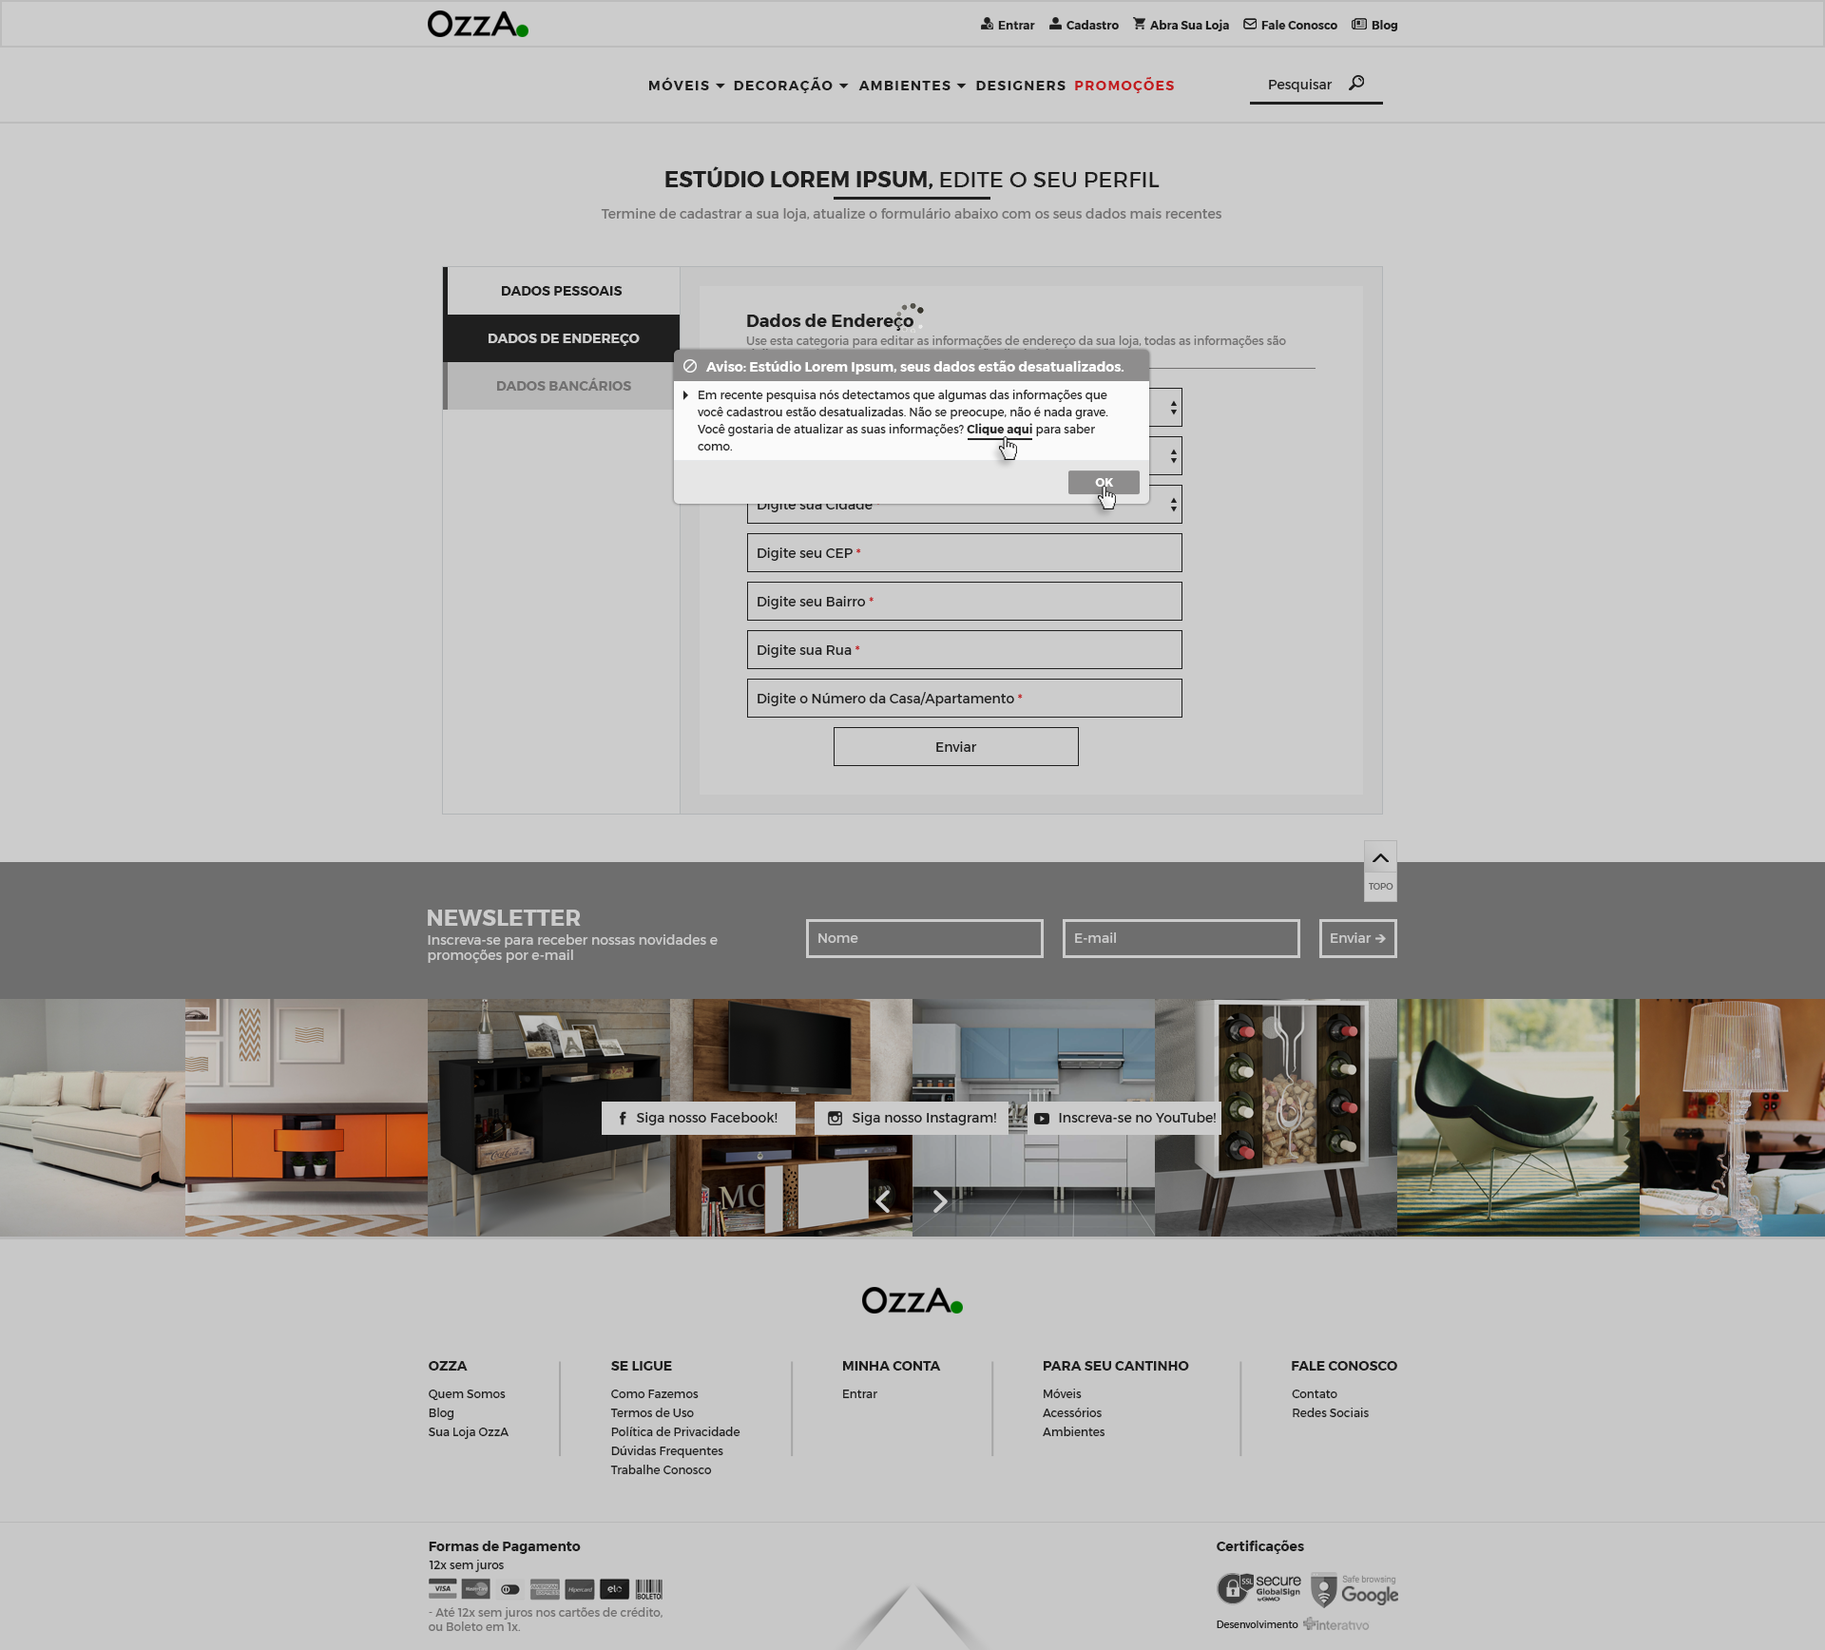
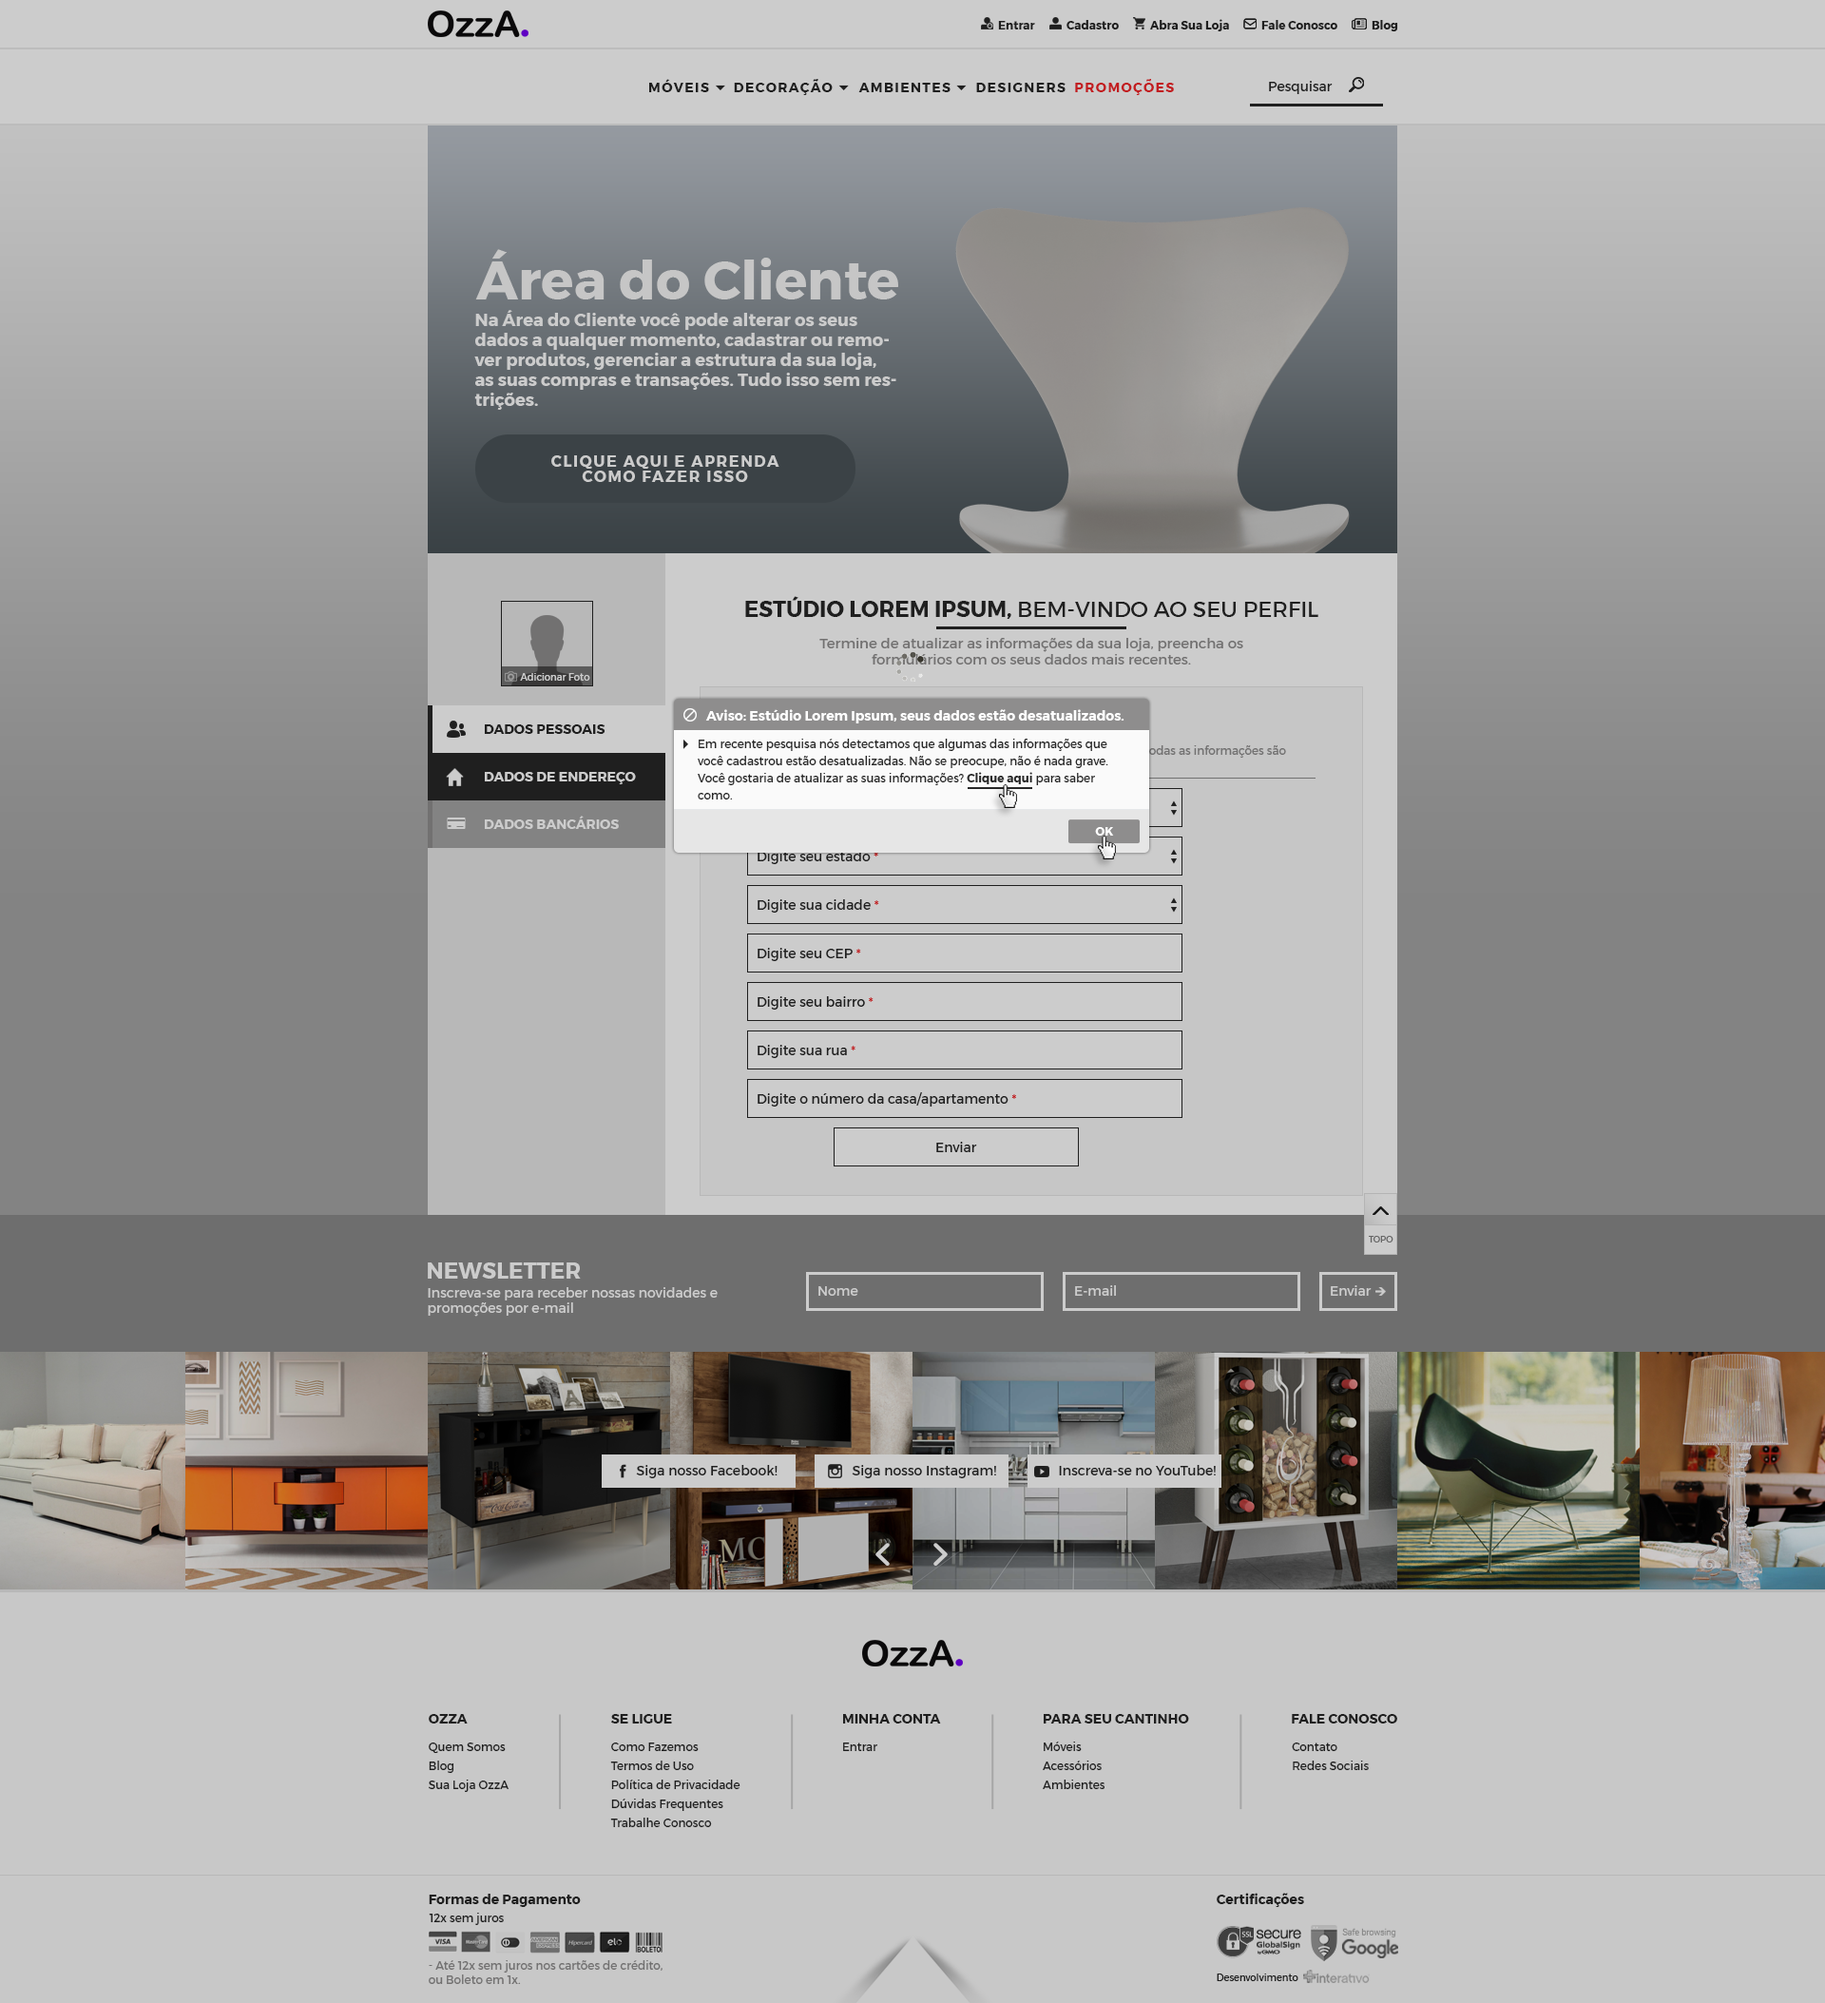
Add files via upload

diff --git a/css/style.css b/css/style.css
@@ -342,109 +342,109 @@
 		
 		.editarperfil-loja-dadospessoais {
 			width: 100%;
-			height: 2153px;
+			height: 2414px;
 			background: url('../imgs/editarperfil-loja-dadospessoais.png') no-repeat 50% 0%;
 		}
 		
 		.editarperfil-loja-dadospessoais-hover {
 			width: 100%;
-			height: 2153px;
+			height: 2414px;
 			background: url('../imgs/editarperfil-loja-dadospessoais-hover.png') no-repeat 50% 0%;
 		}
 		
 		.editarperfil-loja-dadospessoais-active {
 			width: 100%;
-			height: 2153px;
+			height: 2414px;
 			background: url('../imgs/editarperfil-loja-dadospessoais-active.png') no-repeat 50% 0%;
 		}
 
 		.editarperfil-loja-dadospessoais-erro {
 			width: 100%;
-			height: 2153px;
+			height: 2414px;
 			background: url('../imgs/editarperfil-loja-dadospessoais-erro.png') no-repeat 50% 0%;
 		}
 
 		.editarperfil-loja-dadospessoais-sucesso {
 			width: 100%;
-			height: 2153px;
+			height: 2414px;
 			background: url('../imgs/editarperfil-loja-dadospessoais-sucesso.png') no-repeat 50% 0%;
 		}
 
 		.editarperfil-loja-dadospessoais-aviso {
 			width: 100%;
-			height: 2153px;
+			height: 2414px;
 			background: url('../imgs/editarperfil-loja-dadospessoais-aviso.png') no-repeat 50% 0%;
 		}
 		
 		.editarperfil-loja-dadosendereco {
 			width: 100%;
-			height: 1736px;
+			height: 2107px;
 			background: url('../imgs/editarperfil-loja-dadosendereco.png') no-repeat 50% 0%;
 		}
 		
 		.editarperfil-loja-dadosendereco-hover {
 			width: 100%;
-			height: 1736px;
+			height: 2107px;
 			background: url('../imgs/editarperfil-loja-dadosendereco-hover.png') no-repeat 50% 0%;
 		}
 		
 		.editarperfil-loja-dadosendereco-active {
 			width: 100%;
-			height: 1736px;
+			height: 2107px;
 			background: url('../imgs/editarperfil-loja-dadosendereco-active.png') no-repeat 50% 0%;
 		}
 
 		.editarperfil-loja-dadosendereco-erro {
 			width: 100%;
-			height: 1736px;
+			height: 2107px;
 			background: url('../imgs/editarperfil-loja-dadosendereco-erro.png') no-repeat 50% 0%;
 		}
 
 		.editarperfil-loja-dadosendereco-sucesso {
 			width: 100%;
-			height: 1736px;
+			height: 2107px;
 			background: url('../imgs/editarperfil-loja-dadosendereco-sucesso.png') no-repeat 50% 0%;
 		}
 
 		.editarperfil-loja-dadosendereco-aviso {
 			width: 100%;
-			height: 1736px;
+			height: 2107px;
 			background: url('../imgs/editarperfil-loja-dadosendereco-aviso.png') no-repeat 50% 0%;
 		}
 		
 		.editarperfil-loja-dadosbancarios {
 			width: 100%;
-			height: 1532px;
+			height: 1903px;
 			background: url('../imgs/editarperfil-loja-dadosbancarios.png') no-repeat 50% 0%;
 		}
 		
 		.editarperfil-loja-dadosbancarios-hover {
 			width: 100%;
-			height: 1532px;
+			height: 1903px;
 			background: url('../imgs/editarperfil-loja-dadosbancarios-hover.png') no-repeat 50% 0%;
 		}
 		
 		.editarperfil-loja-dadosbancarios-active {
 			width: 100%;
-			height: 1532px;
+			height: 1903px;
 			background: url('../imgs/editarperfil-loja-dadosbancarios-active.png') no-repeat 50% 0%;
 		}
 
 		.editarperfil-loja-dadosbancarios-erro {
 			width: 100%;
-			height: 1532px;
+			height: 1903px;
 			background: url('../imgs/editarperfil-loja-dadosbancarios-erro.png') no-repeat 50% 0%;
 		}
 
 		.editarperfil-loja-dadosbancarios-sucesso {
 			width: 100%;
-			height: 1532px;
+			height: 1903px;
 			background: url('../imgs/editarperfil-loja-dadosbancarios-sucesso.png') no-repeat 50% 0%;
 		}
 
 		.editarperfil-loja-dadosbancarios-aviso {
 			width: 100%;
-			height: 1532px;
+			height: 1903px;
 			background: url('../imgs/editarperfil-loja-dadosbancarios-aviso.png') no-repeat 50% 0%;
 		}
 		
